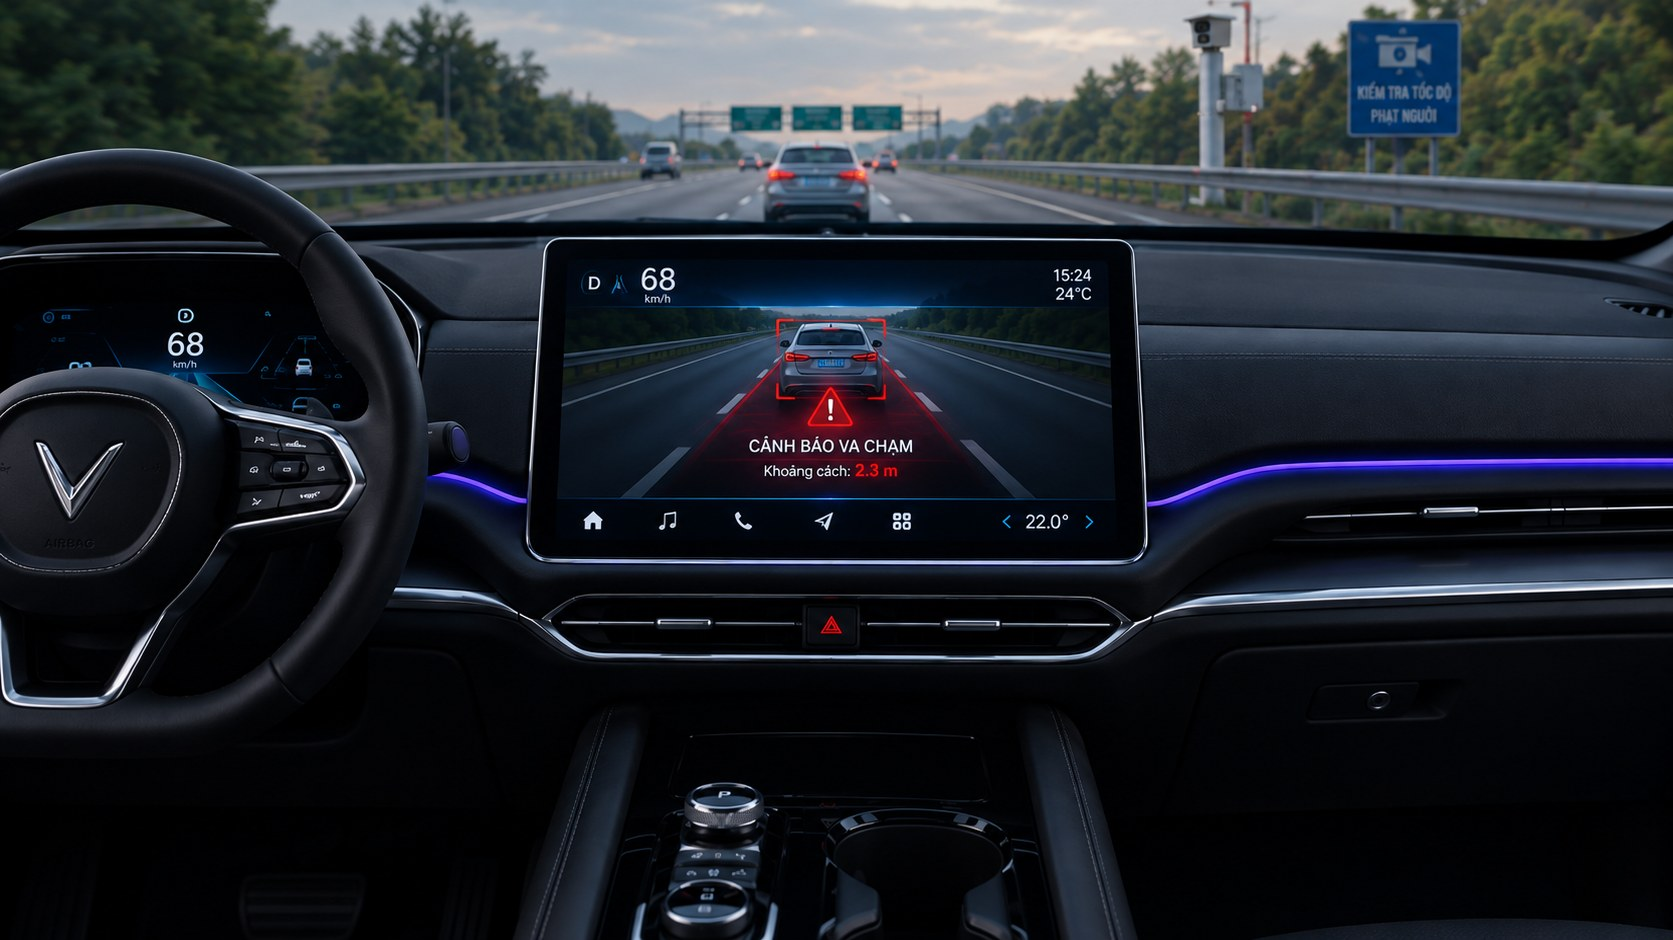
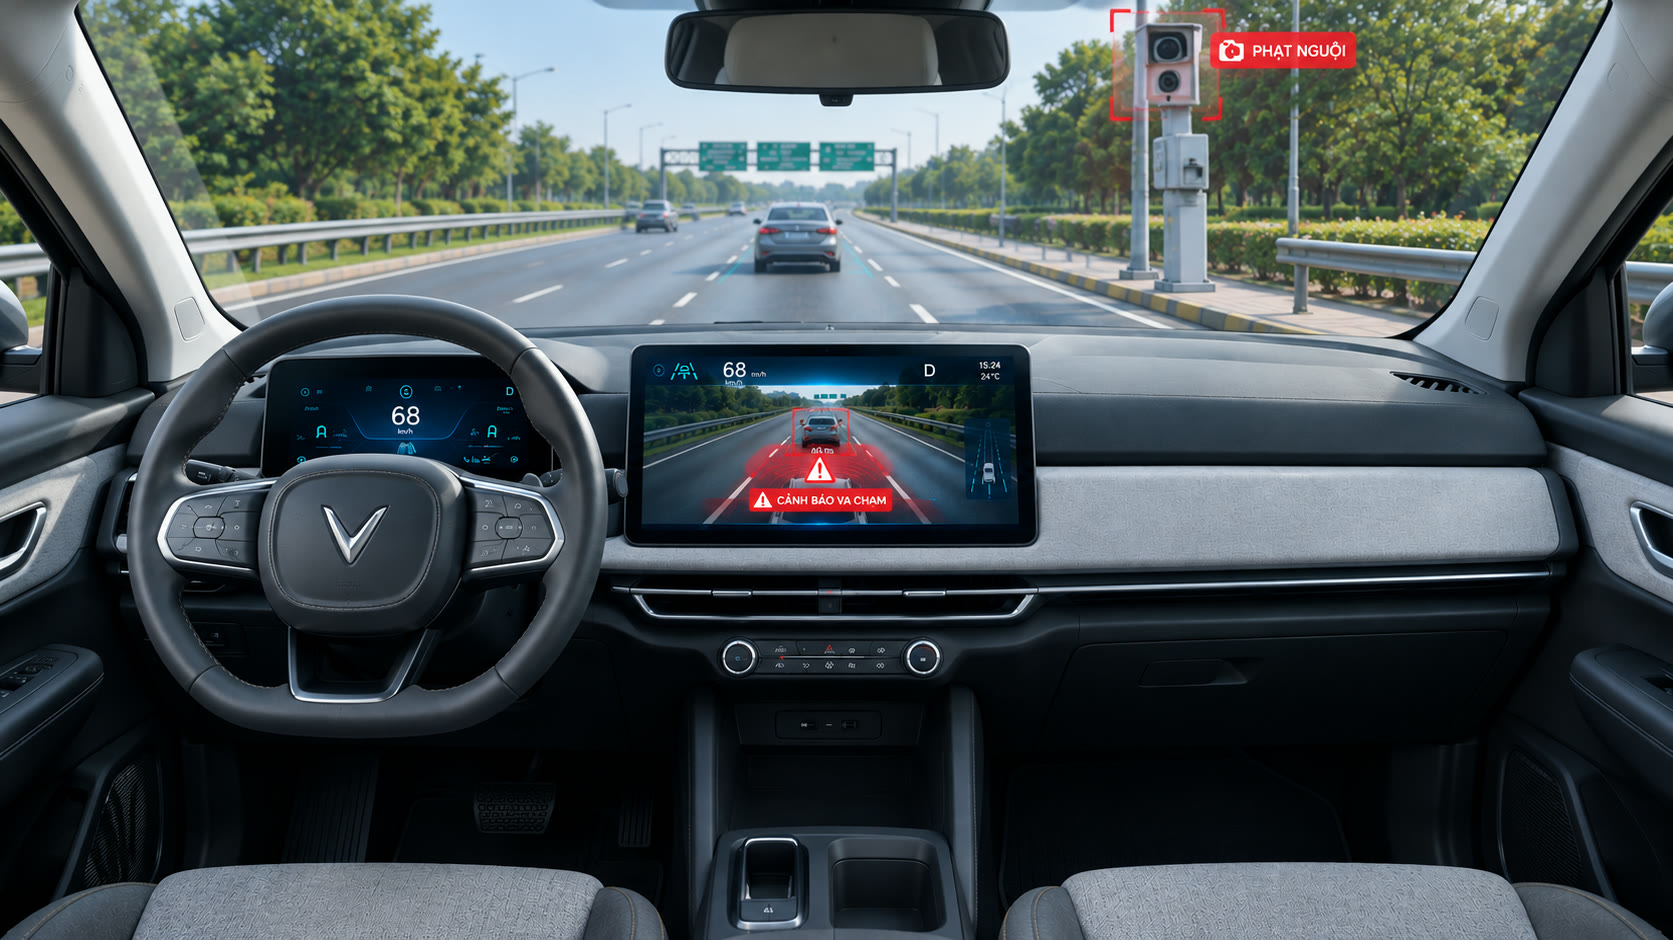
feat(web): new cockpit photo on the entry page
Wheel, logo, car ahead, centre screen, turn lamp and ambient strip
re-measured for the new photo; V button and hints moved to the wheel.

diff --git a/src/roadwatch/ui/cockpit.js b/src/roadwatch/ui/cockpit.js
@@ -11,12 +11,12 @@
   const cv = $("cv"), ctx = cv.getContext("2d");
 
   // pixel geometry measured on the photo
-  const RIM = { cx: 92, cy: 455, rx: 338, ry: 300 };            // outer edge of the steering wheel rim
-  const OPENING = [[0, 250], [60, 236], [150, 232], [240, 240], [300, 262], [345, 300], [370, 345], [380, 395], [220, 398], [205, 382], [0, 385]]; // cluster seen through the wheel
-  const LOGO = { x0: 32, y0: 436, x1: 124, y1: 524, cx: 78, cy: 480 };
-  const LEAD = { x0: 766, y0: 140, x1: 870, y1: 221, rightSample: 872 };
-  const SCREEN = { cx: 844, cy: 400, w: 590, h: 310, view: [563, 305, 548, 196] };
-  const ALERT = { x: 830, y: 412 };
+  const RIM = { cx: 370, cy: 512, rx: 238, ry: 218 };            // outer edge of the steering wheel rim
+  const OPENING = [[190, 470], [195, 420], [215, 385], [250, 355], [300, 338], [370, 333], [440, 338], [490, 355], [525, 385], [545, 420], [550, 470], [440, 470], [430, 462], [310, 462], [300, 470]]; // cluster seen through the wheel
+  const LOGO = { x0: 316, y0: 496, x1: 396, y1: 570, cx: 356, cy: 532 };
+  const SCREEN = { cx: 835, cy: 445, w: 410, h: 200, view: [645, 385, 320, 140] };
+  const ALERT = { x: 818, y: 470 };
+  const ROAD_Y = 318;                                             // windshield bottom: the car ahead stays above it
 
   let clean, plate, wheel, leadSprite;
   function fill(px, box, dir, rightX) {
@@ -40,10 +40,10 @@
     }
     sx.putImageData(out, 0, 0); return sp;
   }
-  const CAR = [[792, 141], [846, 141], [858, 160], [869, 178], [870, 214], [863, 222], [771, 222], [765, 214], [766, 178], [776, 160]];
+  const CAR = [[773, 201], [829, 201], [836, 212], [844, 220], [842, 240], [841, 266], [835, 273], [761, 273], [755, 266], [755, 240], [753, 220], [764, 212]];
   function liftCar(px) {
     // the car ahead, cut along its silhouette; the asphalt behind it is filled by diffusion from the edge
-    const x0 = 755, y0 = 132, w = 126, h = 92, d = px.data, at = (x, y) => (y * W + x) * 4;
+    const x0 = 744, y0 = 193, w = 110, h = 88, d = px.data, at = (x, y) => (y * W + x) * 4;
     const m = document.createElement("canvas"); m.width = w; m.height = h;
     const mx = m.getContext("2d"), poly = (c) => { c.beginPath(); CAR.forEach(([x, y], i) => (i ? c.lineTo(x - x0, y - y0) : c.moveTo(x - x0, y - y0))); c.closePath(); };
     mx.fillStyle = "#fff"; poly(mx); mx.fill(); mx.lineWidth = 7; mx.strokeStyle = "#fff"; mx.stroke();
@@ -56,7 +56,7 @@
     for (let y = 0; y < h; y++) for (let x = 0; x < w; x++) {
       const o = (y * w + x) * 4, i = at(x0 + x, y0 + y);
       out.data[o] = d[i]; out.data[o + 1] = d[i + 1]; out.data[o + 2] = d[i + 2]; out.data[o + 3] = soft[o + 3];
-      if (hole[o + 3] > 10 && y0 + y < 222) fillIdx.push(x0 + x, y0 + y);
+      if (hole[o + 3] > 10 && y0 + y < ROAD_Y) fillIdx.push(x0 + x, y0 + y);
     }
     sx.putImageData(out, 0, 0);
     const n = fillIdx.length / 2, inHole = new Uint8Array(W * H);
@@ -70,7 +70,7 @@
     }
     for (let it = 0; it < 120; it++) for (let k = 0; k < n; k++) {
       const x = fillIdx[2 * k], y = fillIdx[2 * k + 1], i = at(x, y);
-      for (let c = 0; c < 3; c++) d[i + c] = (d[at(x - 1, y) + c] + d[at(x + 1, y) + c] + d[at(x, y - 1) + c] + d[at(x, Math.min(y + 1, 221)) + c]) / 4;
+      for (let c = 0; c < 3; c++) d[i + c] = (d[at(x - 1, y) + c] + d[at(x + 1, y) + c] + d[at(x, y - 1) + c] + d[at(x, Math.min(y + 1, ROAD_Y - 1)) + c]) / 4;
     }
     for (let k = 0; k < n; k++) { const i = at(fillIdx[2 * k], fillIdx[2 * k + 1]), g = (Math.random() - 0.5) * 3; for (let c = 0; c < 3; c++) d[i + c] += g; }
     sp.ox = x0; sp.oy = y0; return sp;
@@ -114,12 +114,12 @@
     engine.update();
     ctx.drawImage(plate, 0, 0);
 
-    // the car ahead: drifts gently, then speeds straight off down the road toward the vanishing point (815, 163)
+    // the car ahead: drifts gently, then speeds straight off down the road toward the vanishing point (792, 196)
     const e = slide * slide * slide, bob = REDUCED ? 0 : Math.sin(t * 1.3) * 1.2;
     const s = 1 / (1 + 14 * e), lw = leadSprite.width * s, lh = leadSprite.height * s;
-    const bx = 815 + (818 - 815) * s, by = 163 + (222 - 163) * s + bob * (1 - e);   // rear bumper centre on the road
-    const lx = bx - 63 * s, ly = by - 90 * s;
-    ctx.save(); ctx.beginPath(); ctx.rect(0, 0, W, 222); ctx.clip(); ctx.globalAlpha = e > 0.85 ? (1 - e) / 0.15 : 1;
+    const bx = 792 + (798 - 792) * s, by = 196 + (272 - 196) * s + bob * (1 - e);   // rear bumper centre on the road
+    const lx = bx - 54 * s, ly = by - 79 * s;
+    ctx.save(); ctx.beginPath(); ctx.rect(0, 0, W, ROAD_Y); ctx.clip(); ctx.globalAlpha = e > 0.85 ? (1 - e) / 0.15 : 1;
     ctx.drawImage(leadSprite, lx, ly, lw, lh); ctx.restore();
 
     // collision alert on the center screen breathes; it calms down once the car has slid away
@@ -141,8 +141,7 @@
     const amb = (REDUCED ? 0.2 : 0.12 + 0.1 * Math.sin(t * 1.4)) + flash;
     ctx.save(); ctx.globalCompositeOperation = "lighter"; ctx.lineCap = "round"; ctx.shadowColor = "#8b5cf6"; ctx.shadowBlur = 14;
     ctx.strokeStyle = `rgba(139,92,246,${Math.min(1, amb)})`; ctx.lineWidth = 5;
-    ctx.beginPath(); ctx.moveTo(430, 476); ctx.quadraticCurveTo(482, 484, 525, 500); ctx.stroke();
-    ctx.beginPath(); ctx.moveTo(1148, 500); ctx.quadraticCurveTo(1400, 470, 1673, 458); ctx.stroke();
+    ctx.beginPath(); ctx.moveTo(1040, 588); ctx.quadraticCurveTo(1300, 584, 1550, 572); ctx.stroke(); // along the chrome trim
     ctx.restore();
 
     // steering wheel: turns in its own (foreshortened) plane, with the RoadWatch V on the hub
@@ -155,7 +154,7 @@
     ctx.restore();
     if (blinker > 0 && Math.floor(t * 3) % 2 === 0) { // right turn signal lamp on the cluster
       ctx.save(); ctx.fillStyle = "#3fe08a"; ctx.shadowColor = "#3fe08a"; ctx.shadowBlur = 12;
-      ctx.beginPath(); ctx.moveTo(318, 300); ctx.lineTo(304, 290); ctx.lineTo(304, 296); ctx.lineTo(292, 296); ctx.lineTo(292, 304); ctx.lineTo(304, 304); ctx.lineTo(304, 310); ctx.closePath(); ctx.fill(); ctx.restore();
+      ctx.beginPath(); ctx.moveTo(530, 445); ctx.lineTo(516, 435); ctx.lineTo(516, 441); ctx.lineTo(504, 441); ctx.lineTo(504, 449); ctx.lineTo(516, 449); ctx.lineTo(516, 455); ctx.closePath(); ctx.fill(); ctx.restore();
     }
     if (!started && !REDUCED) { // invitation ring around the hub
       const p = (t * 0.55) % 1; ctx.strokeStyle = `rgba(70,214,230,${0.7 * (1 - p)})`; ctx.lineWidth = 2.5;

diff --git a/src/roadwatch/ui/cockpit.html b/src/roadwatch/ui/cockpit.html
@@ -30,8 +30,8 @@ button { font: inherit; color: inherit; }
 .wheel { position: absolute; inset: 0; z-index: 2; touch-action: none; outline: none; }
 .wheel:focus-visible { outline: none; }
 .wheel:focus-visible ~ .hint.steer { color: #fff; }
-.vbtn { position: absolute; left: 0; top: 42%; width: 12.6%; height: 19%; border-radius: 40%; border: 0; background: transparent; cursor: pointer; padding: 0; z-index: 3; }
-.hint { position: absolute; left: 1.2%; top: 63%; font-family: var(--font-data); font-size: max(10px, .85cqw); letter-spacing: .16em; text-transform: uppercase;
+.vbtn { position: absolute; left: 16.5%; top: 49.5%; width: 9.2%; height: 13%; border-radius: 40%; border: 0; background: transparent; cursor: pointer; padding: 0; z-index: 3; }
+.hint { position: absolute; left: 13%; top: 63%; font-family: var(--font-data); font-size: max(10px, .85cqw); letter-spacing: .16em; text-transform: uppercase;
   color: var(--cyan); pointer-events: none; display: flex; gap: .6em; align-items: center; text-shadow: 0 0 8px rgba(70, 214, 230, .6); animation: blink 2.2s ease-in-out infinite; z-index: 3; }
 .hint.steer { top: 67%; color: var(--slate); text-shadow: 0 0 8px rgba(0,0,0,.8); animation: none; opacity: .85; }
 @keyframes blink { 50% { opacity: .4; } }
